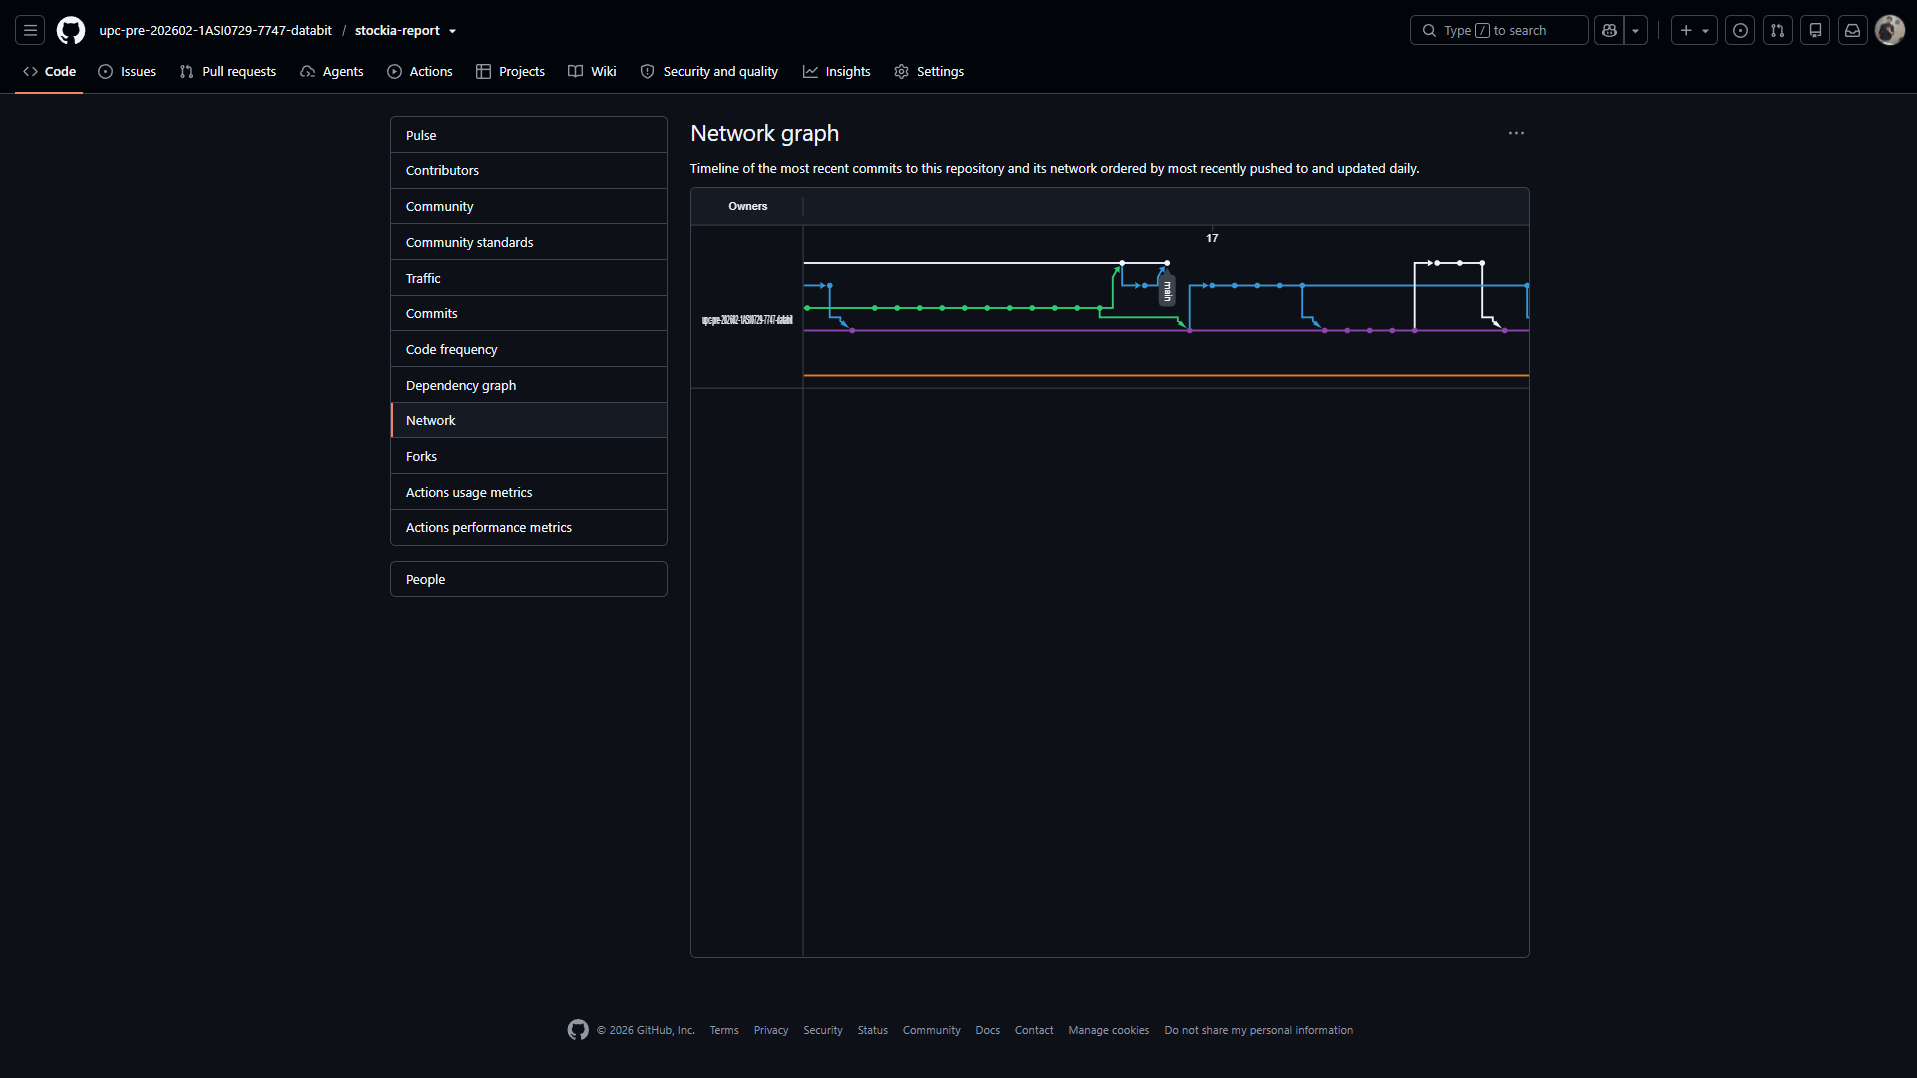
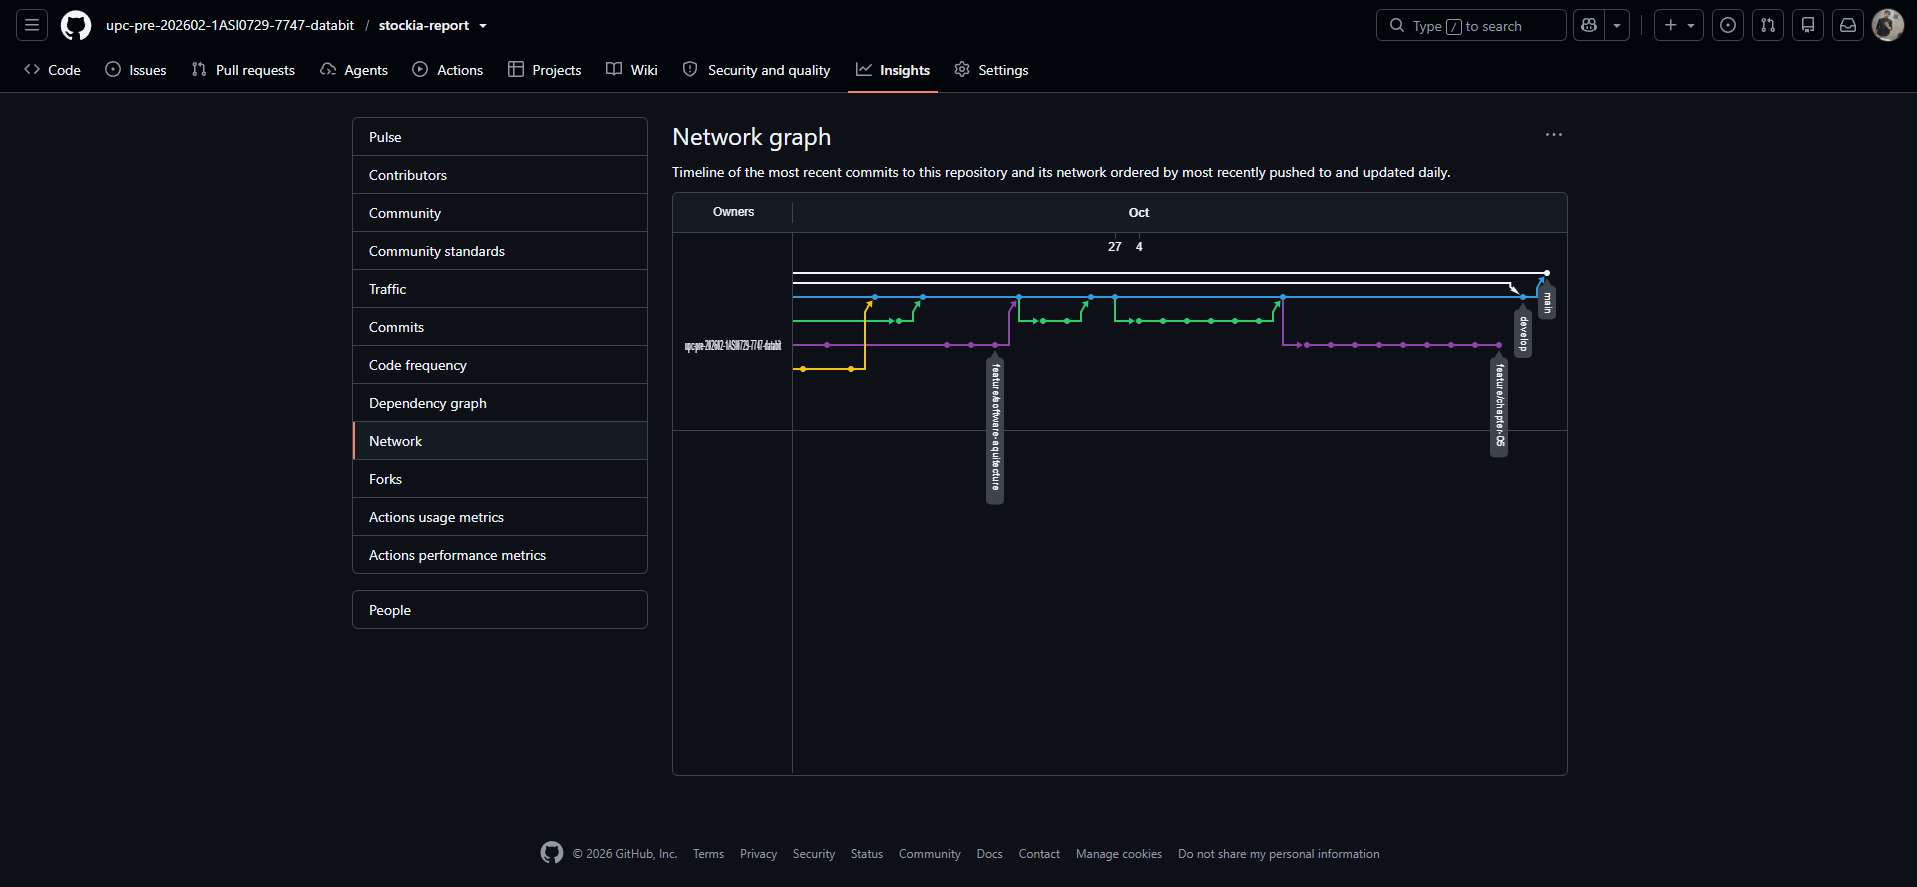
docs(chapter-05): updated sprint 1 team collaboration insights

diff --git a/README.md b/README.md
@@ -3448,40 +3448,38 @@ La Landing Page se publicó en **Vercel** como sitio estático, servido desde su
 </p>
 
 #### 5.2.1.8. Team Collaboration Insights during Sprint
-**Dinámica de Implementación**
+**Dinámica de trabajo**
+ 
+Durante el Sprint 1 el equipo trabajó en dos frentes: la Landing Page y la documentación del informe. Las tareas se organizaron en Jira, en el proyecto STOCKIA-OS, con un responsable por tarea (ver 5.2.1.3). El código y el informe se versionaron en GitHub siguiendo GitFlow: `main` para versiones entregables, `develop` para integración y una rama `feature/*` por tarea o sección, integrada por Pull Request revisado por otro integrante.
+ 
+**Aporte por integrante**
+ 
+| **Integrante** | **GitHub** | **Aporte principal en el Sprint 1** | **Commits en `stockia-report` (develop, al 22/09/2026)** | **Commits en `stockia-website`** |
+| :--- | :--- | :--- | :---: | :---: |
+| Gallardo Morales, Carla Alejandra | Carlsss28 | `features.html` (US02), navegación (US07), contraste y compatibilidad (RNF02, RNF05); índice, portada y guía de estilos del informe | 44 | 2 |
+| Huaman Oscco, Aldo Jesus | Jesusho22 (Jesus / Aldo_Jesus) | `index.html` (US01–US03), despliegue en Vercel (TS04), reglas de ramas (TS01); capítulos III y V del informe | 34 | 2 |
+| Miranda Cordova, Jesus Angel Yvan | Jesus-Miranda-678 | `pricing.html` (US04), responsive, rendimiento y SEO (RNF01, RNF03, RNF04); capítulo II y diagramas C4 del informe | 41 | 0 |
+| Ortiz Laura, Leyla Alisson | Leylaa-O (Leylaa-O / Leyla Ortiz) | Estructura del repositorio (TS01), sistema de diseño (TS02), i18n (TS03), interacciones en `main.js`; Impact Map, mock-ups y sección 5.1 del informe | 18 | 5 |
+| Toro Turpo, Ronal | Ronal345 (ronaltt-345) | `about.html` (US05, US06), contenido y traducción (US08, RNF07); capítulo I y EventStorming del informe | 8 | 1 |
+ 
+**Evidencia: contribuciones por integrante en `stockia-report`**
+ 
 <p align="center">
-Durante este ciclo, el equipo concentró sus esfuerzos en el desarrollo Frontend y la Documentación Técnica de la Landing Page. El equipo trabajó de forma remota, distribuyendo tareas mediante un tablero Kanban en Jira (ver evidencia en 5.2.1.3) y centralizando el control de versiones en GitHub. _(completar — nombra la herramienta real de comunicación diaria del equipo: Discord, WhatsApp, Slack, etc., y la frecuencia de las reuniones de sincronización)_.
+  <img src="assets/img/chapter-05/Contributors.png" width="700" alt="Contribuciones por integrante en stockia-report"/>
+  <br/><i>Contributors del repositorio stockia-report</i>
 </p>
-
-**Analíticos de Colaboración**
+**Evidencia: contribuciones por integrante en `stockia-website`**
+ 
 <p align="center">
-La carga de trabajo se distribuyó para asegurar que todos los integrantes participaran en la construcción de los artefactos visuales y técnicos:
-
-* Desarrollo Frontend: Implementación de componentes responsivos de la Landing Page, secciones de propuesta de valor, internacionalización (i18n) y formulario de captura de datos.
-
-* Documentación y Calidad: Redacción de Historias de Usuario, diseño de artefactos de planificación y elaboración del informe de Sprint Review conforme a la rúbrica.
-
-* Control de Versiones: El equipo aplica **GitFlow** en el repositorio `stockia-report`, con `main` y `develop` como ramas estables y una rama `feature/chapter-0X` por cada capítulo (`feature/chapter-01` a `feature/chapter-05`), integradas mediante Pull Requests revisados antes de cada merge (a la fecha, PR #1 al #29). Se aplicará la misma convención (`main` / `develop` / `feature/*`) en `stockia-website` en cuanto se suba el código de la Landing Page.
+  <img src="assets/img/chapter-05/Contributors-website.png" width="700" alt="Contribuciones por integrante en stockia-website"/>
+  <br/><i>Contributors del repositorio stockia-website</i>
 </p>
-
-**Evidencia GitFlow: Graph**
+**Evidencia: grafo de GitFlow**
+ 
 <p align="center">
-  <img src="assets/img/chapter-05/Network-Gitflow.png" width="200" alt="Graph"/>
-  <br/><i>Grafo de versiones para el gitflow</i>
+  <img src="assets/img/chapter-05/Network-Gitflow.png" width="700" alt="Grafo de ramas"/>
+  <br/><i>Network: ramas feature integradas en develop mediante Pull Request</i>
 </p>
-
-**Evidencia GitFlow: Commits**
-<p align="center">
-  <img src="assets/img/chapter-05/Contributors.png" width="500" alt="Commits"/>
-  <br/><i>Gráfico estadístico de commits por usuario — stockia-website (Insights → Contributors)</i>
-</p>
-
-**Evidencia GitFlow: Network**
-<p align="center">
-  <img src="assets/img/chapter-05//Network.png" width="500" alt="Network"/>
-  <br/><i>Grafo de trabajo</i>
-</p>
-
 
 #### 5.2.2.3. Sprint Backlog 2
  
